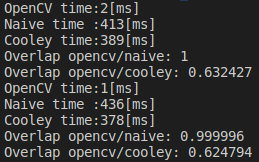
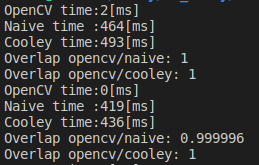
increased precision of cooley-turkey

diff --git a/laba4/src/custom_fourier.cpp b/laba4/src/custom_fourier.cpp
@@ -194,70 +194,26 @@ cv::Mat CUSTOM_FOURIER::fft(cv::Mat& input) {
     cv::Mat_<cv::Complex<float>> img = convertToComplex(input);
 
     // Проход по строкам
-    cv::Mat_<cv::Complex<float>> rows_image = convertTo1D(img, true);
-    cooley_turkey(rows_image);
-    cv::Mat_<cv::Complex<float>> output = convertTo2D(rows_image, true, img.rows, img.cols);
+    //cv::Mat_<cv::Complex<float>> rows_image = convertTo1D(img, true);
+    //cooley_turkey(rows_image);
+    //cv::Mat_<cv::Complex<float>> output = convertTo2D(rows_image, true, img.rows, img.cols);
+
+    // Преобразование по строкам
+    for(int i = 0; i != img.rows; ++i) {
+        cv::Mat_<cv::Complex<float>> row = img.row(i);
+        cooley_turkey(row);
+        img.row(i) = row;
+    }
+    // Преобразование по столбцам
+    cv::transpose(img, img);
+    for(int i = 0; i != img.rows; ++i) {
+        cv::Mat_<cv::Complex<float>> row = img.row(i);
+        cooley_turkey(row);
+        img.row(i) = row;
+    }
+    // Возвращаем ориентацию
+    cv::transpose(img, img);
 
     // Возврат к исходному типу
-    return convertFromComplex(output);
-}
-
-cv::Mat CUSTOM_FOURIER::fft2(cv::Mat& src) {
-    int r = src.rows;
-    int c = src.cols;
-    src.convertTo(src, CV_32FC1);
-    cv::Mat dst;
-    dst.create(r, c, CV_32FC2);
-    for(int i = 0; i < r; i++) {
-        for(int j = 0; j < c; j++) {
-            dst.at<cv::Vec2f>(i,j)[0] = src.at<float>(i,j);
-            dst.at<cv::Vec2f>(i,j)[1] = 0.0;
-        }
-    }
-    int log_r = log2(r);
-    int log_c = log2(c);
-    for(int i = 0; i < r; i++) {
-        for(int j = 0; j < c; j++) {
-            int rp = i;
-            int cp = j;
-            for(int k = 0; k < log_c; k++) {
-                int new_cp = 0;
-                if(cp & (1<<k)) {
-                    new_cp |= 1<<(log_c-k-1);
-                }
-                cp = new_cp;
-            }
-            for(int k = 0; k < log_r; k++) {
-                int new_rp = 0;
-                if(rp & (1<<k)) {
-                    new_rp |= 1<<(log_r-k-1);
-                }
-                rp = new_rp;
-            }
-            if(rp < i) {
-                cv::Vec2f temp = dst.at<cv::Vec2f>(i,j);
-                dst.at<cv::Vec2f>(i,j) = dst.at<cv::Vec2f>(rp,cp);
-                dst.at<cv::Vec2f>(rp,cp) = temp;
-            }
-        }
-    }
-    cv::Mat_<cv::Complex<float>> out(dst.rows, dst.cols);
-    for(int n = 2; n <= r; n<<=1) {
-        for(int i = 0; i < r; i+=n) {
-            int half_n = n>>1;
-            for(int j = 0; j < half_n; j++) {
-                float rp = cos(2*M_PI*j/n);
-                float ip = -sin(2*M_PI*j/n);
-                cv::Complex<float> w(rp,ip);
-                cv::Vec2f u_ = dst.at<cv::Vec2f>(i+j+half_n,0);
-                cv::Complex<float> u(u_.val[0], u_.val[1]);
-                u = u * w;
-                cv::Vec2f x_ = dst.at<cv::Vec2f>(i+j,0);
-                cv::Complex<float> x(x_.val[0], x_.val[1]);
-                out.at<cv::Complex<float>>(i+j+half_n,0) = x - u;
-                out.at<cv::Complex<float>>(i+j,0) = x + u;
-            }
-        }
-    }
-    return convertFromComplex(out);
+    return convertFromComplex(img);
 }

diff --git a/laba4/main.cpp b/laba4/main.cpp
@@ -8,6 +8,3 @@ int main() {
     //PIPELINE::startCorelateLicencePlates("../plates", "../plates_templates");
     return 0;
 }
-
-
-// There are 2 pictures. The first is licence plate. The second is a letter, cut from the first image. Create a function to find the letter on the image of licence plate, using cv::mulSpectrums

diff --git a/laba4/README.md b/laba4/README.md
@@ -25,18 +25,14 @@
 ![Пример работы программы](readme_img/example2_0.png)
 ![Пример работы программы](readme_img/example2_1.png)
 
-Странно, но выполнение двоичной инверсии для порядка элементов массива привело к тому, что алгоритм перестал работать - на нем появилась нежелательная сетка.
-
-![Пример работы программы](readme_img/example2_2.png)
-
 
 ### Задание 3,4
 
 - <ins>Сравнить быстродействие из функций из первой и второй части, а также с преобразованием из OpenCV</ins>
 
-Время выполнения функций сравнивалось при помощи std::chrono, поочередно скармливая одну и ту же картинку разным функциям. По результатам сравнения самым быстрым оказался встроенный алгоритм, примерно в ~200 раз быстрее. Такая большая разница может быть объяснена лишними переводами типов данных, а таже сильной неоптимизированности кода. А преимущество в скорости выполнения у cooley-turkey перед лобовым методом оказалось на уровне 20%. 
+Время выполнения функций сравнивалось при помощи std::chrono, поочередно скармливая одну и ту же картинку разным функциям. По результатам сравнения самым быстрым оказался встроенный алгоритм, примерно в ~200 раз быстрее. Наивный метод и cooley-turkey в данной реализации находятся примерно на одном уровне по времени выполнения. Такая большая разница может быть объяснена лишними переводами типов данных, а таже сильной неоптимизированности кода (много неоптимальных копирований). 
 
-Кроме того, также были сравнены совпадения полученных спектров (если разница в значении не превышает одного процента - совпадают). Результат лобового метода максимально совпадает с результатом полученным с помощью функции opencv, а результат cooley-turkey находится на уровне 70-80%. Эти различия могут быть обусловлены использованием разложения изображения в одномерный массив при использовании рекурсивного метода.
+Кроме того, также были сравнены совпадения полученных спектров (если разница в значении не превышает одного процента - совпадают). Результат лобового метода и cooley-turkey максимально совпадает с результатом полученным с помощью функции opencv.
 
 ![Пример работы программы](readme_img/example3.png)
 
